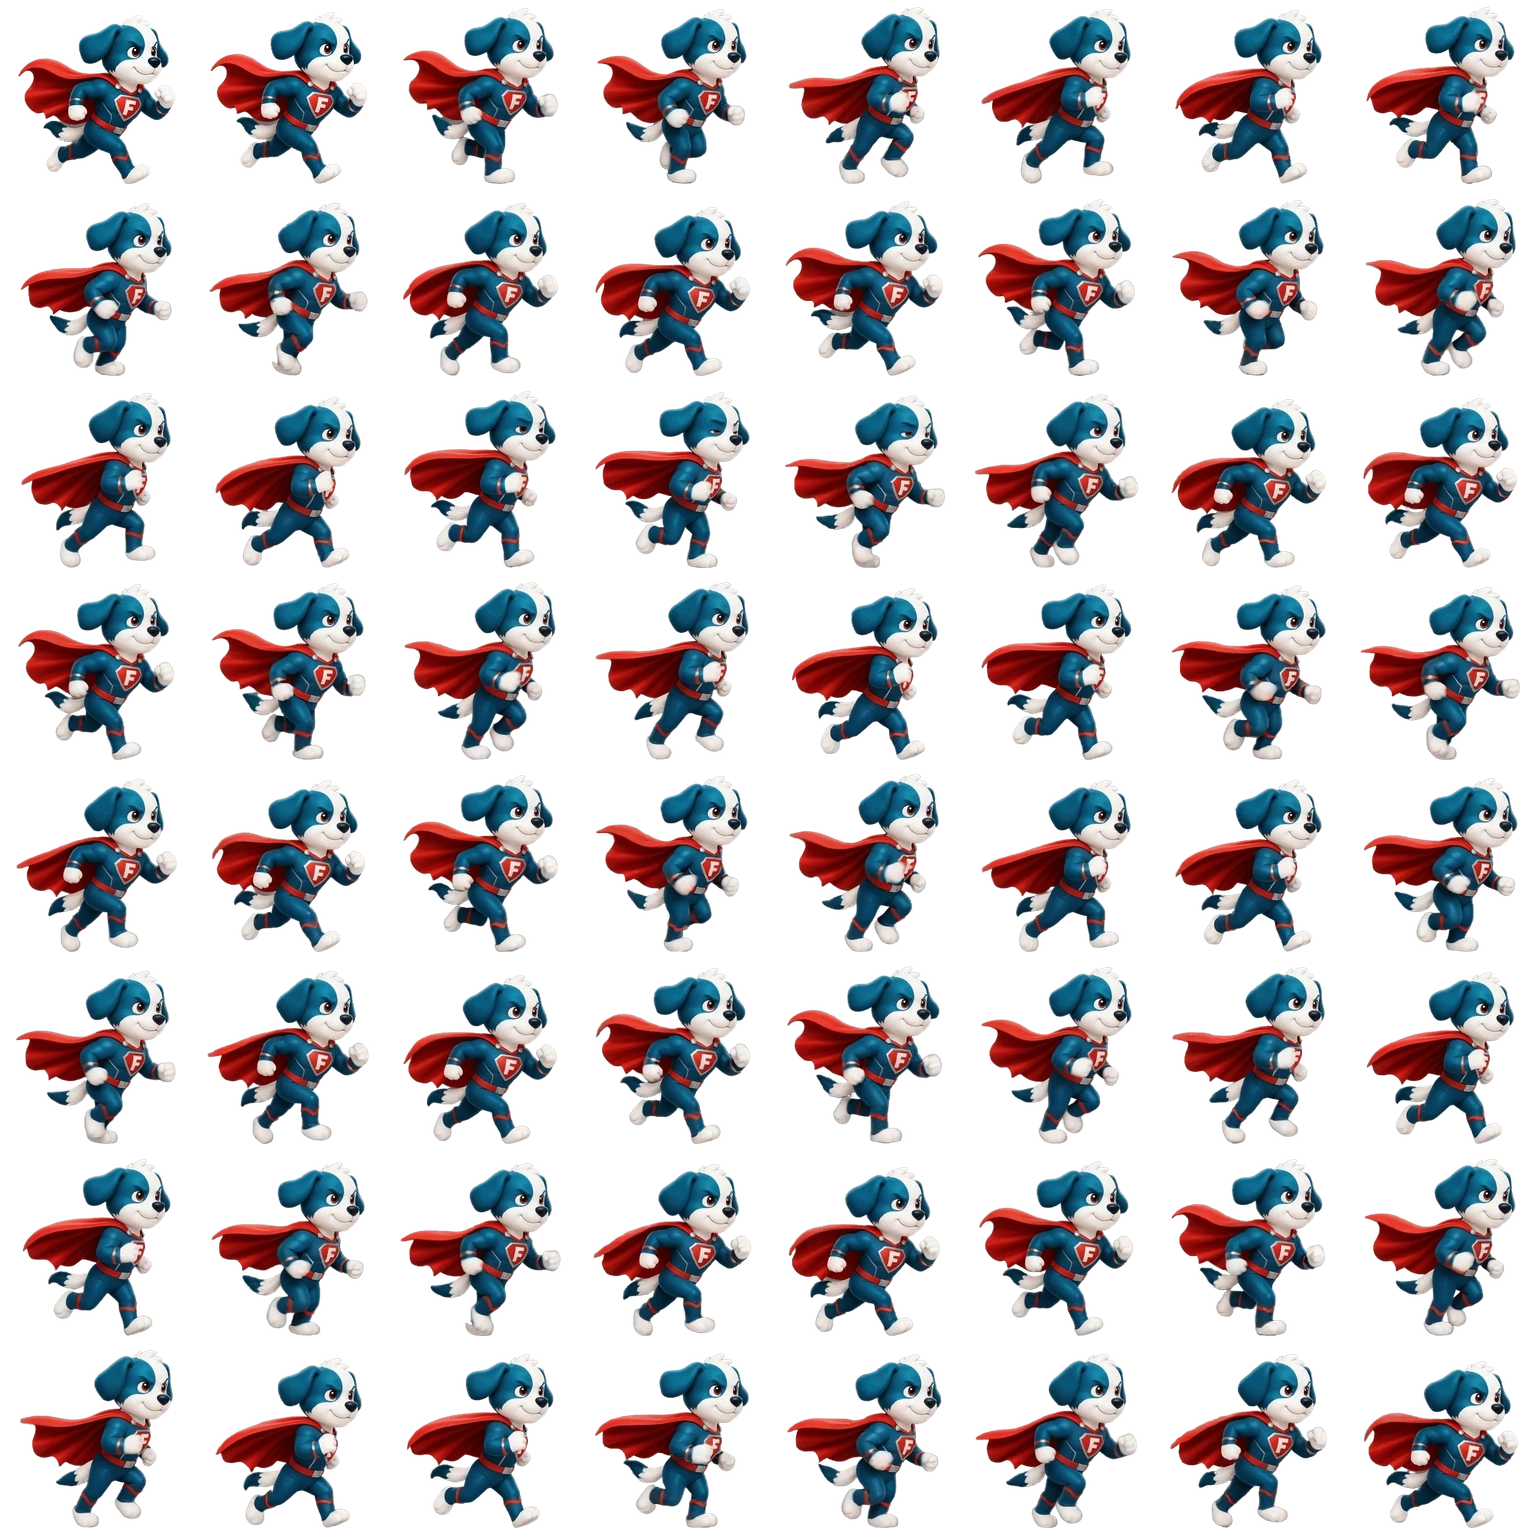
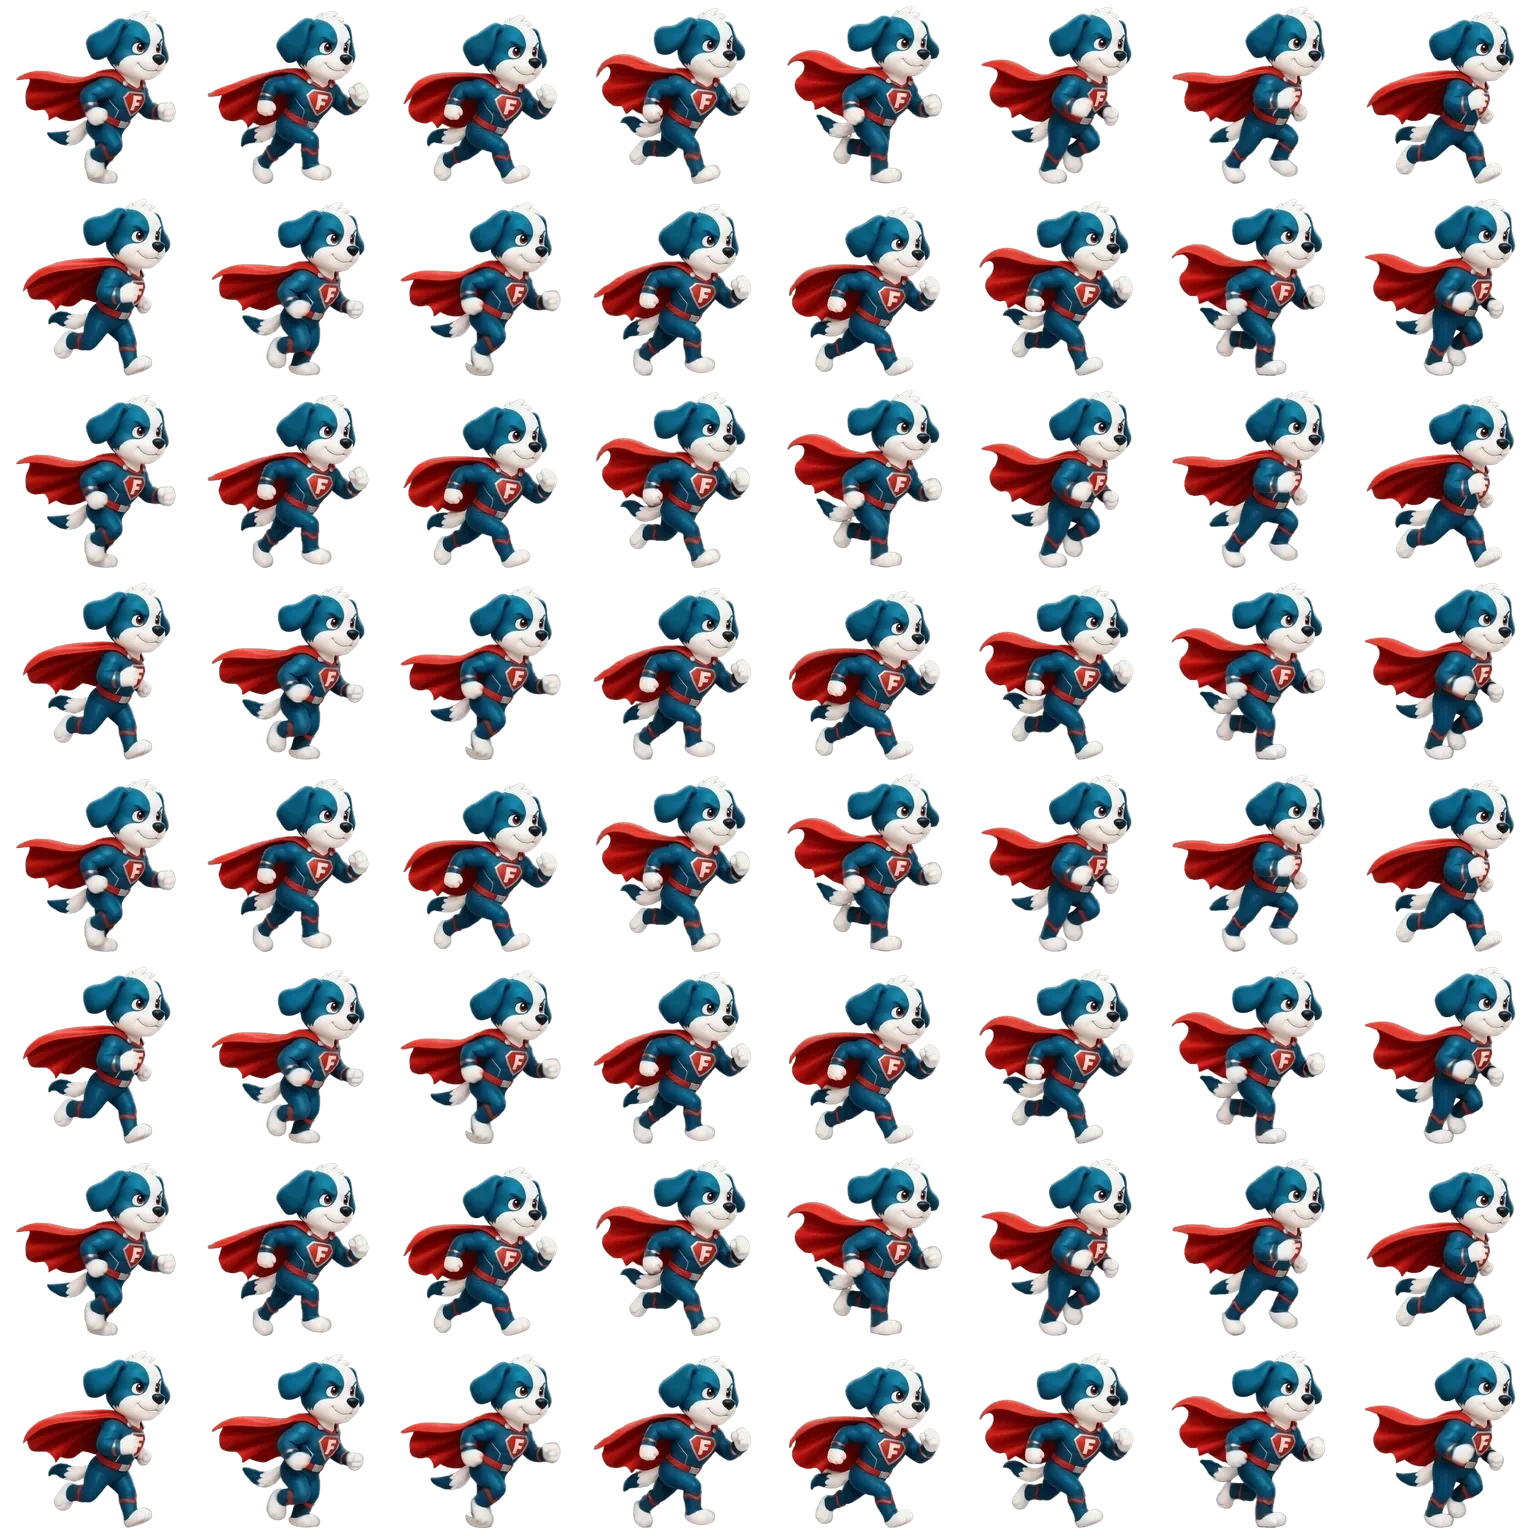
fix(fredrun): smooth Fred and Superfred run and jump animations

diff --git a/src/lib/fredrun-ui.test.ts b/src/lib/fredrun-ui.test.ts
@@ -17,7 +17,7 @@ const manifest = JSON.parse(readFileSync(fileURLToPath(new URL("../../public/fre
   source: {
     archive: { sha256: string; includedAnimations: string[] };
     jumpSheet: { sha256: string; sourceGrid: string; sourceFrameCount: number; selectedFrameIndices: number[] };
-    runSheet: { file: string; sha256: string; sourceGrid: string; sourceFrameCount: number };
+    runSheet: { file: string; sha256: string; sourceGrid: string; sourceFrameCount: number; selectedFrameIndices: number[] };
   };
   atlas: {
     cellSize: number;
@@ -391,12 +391,15 @@ describe("Fredrun UI surface", () => {
     expect(manifest.source.jumpSheet.selectedFrameIndices).toHaveLength(24);
     expect(manifest.source.jumpSheet.selectedFrameIndices[0]).toBe(0);
     expect(manifest.source.jumpSheet.selectedFrameIndices.at(-1)).toBe(48);
-    expect(manifest.source.runSheet).toEqual({
+    expect(manifest.source.runSheet).toMatchObject({
       file: "Fred-run.png",
[1 lines of base64/hex data omitted]
       sourceGrid: "8x8",
       sourceFrameCount: 64,
     });
+    expect(manifest.source.runSheet.selectedFrameIndices).toHaveLength(64);
+    expect(manifest.source.runSheet.selectedFrameIndices[0]).toBe(24);
+    expect(manifest.source.runSheet.selectedFrameIndices.at(-1)).toBe(55);
     expect(manifest.atlas).toMatchObject({
       cellSize: 192,
       anchor: "bottom-center",
@@ -502,22 +505,25 @@ describe("Fredrun UI surface", () => {
       sourceGrid: "8x8",
       sourceFrameCount: 64,
       phaseFrames: {
-        takeoff: [0, 24],
-        superman: [25, 40],
-        landing: [41, 63],
+        takeoff: [24, 27],
+        superman: [28, 38],
+        landing: [39, 46],
       },
     });
-    expect(superfredManifest.atlas.animations.jump.sourceFrames).toEqual(
-      Array.from({ length: 64 }, (_, index) => index),
-    );
+    const sourceFrames = superfredManifest.atlas.animations.jump.sourceFrames;
+    expect(sourceFrames).toHaveLength(64);
+    expect(sourceFrames?.[0]).toBe(24);
+    expect(sourceFrames?.[9]).toBe(27);
+    expect(sourceFrames?.[10]).toBe(28);
+    expect(sourceFrames?.at(-1)).toBe(46);
     const totalBytes = Object.values(superfredManifest.atlas.animations).reduce((total, animation) => (
       total + animation.bytes
     ), 0);
     expect(totalBytes).toBeLessThanOrEqual(3 * 1024 * 1024);
     expect(profileSource).toContain('export const FREDRUN_CHARACTER_IDS = ["fred", "frida", "superfred"] as const');
-    expect(viewSource).toContain('walk: { source: "/fredrun/superfred/walk.webp", columns: 8, frameCount: 64, fps: 16 }');
+    expect(viewSource).toContain('walk: { source: "/fredrun/superfred/walk.webp?v=smooth-walk-1", columns: 8, frameCount: 64, fps: 16 }');
     expect(viewSource).toContain('const JUMP_ANIMATION_DURATION = 0.82;');
-    expect(viewSource).toContain('jump: { source: "/fredrun/superfred/jump.webp?v=superman-jump-1", columns: 8, frameCount: 64, fps: 16 }');
+    expect(viewSource).toContain('jump: { source: "/fredrun/superfred/jump.webp?v=superman-jump-2", columns: 8, frameCount: 64, fps: 16 }');
     expect(viewSource).toContain('victory: { source: "/fredrun/superfred/victory.webp", columns: 8, frameCount: 64, fps: 16 }');
     expect(profileSource).toContain('superfred: { name: "Superfred", description: "Mit Cape und Extrapower", price: FREDRUN_SUPERFRED_PRICE }');
     expect(stylesSource).toContain("grid-template-columns: repeat(3, minmax(0, 1fr));");

diff --git a/src/components/fredrun-view.tsx b/src/components/fredrun-view.tsx
@@ -110,7 +110,7 @@ type CharacterSpriteLayout = {
 
 const characterSpriteLayouts: Record<FredRunCharacterId, Record<SpriteKey, CharacterSpriteLayout>> = {
   fred: {
-    walk: { source: "/fredrun/walk.png", columns: 8, frameCount: 64, fps: 18 },
+    walk: { source: "/fredrun/walk.png?v=smooth-walk-1", columns: 8, frameCount: 64, fps: 18 },
     jump: { source: "/fredrun/jump.png", columns: 6, frameCount: 24, fps: 18 },
     victory: { source: "/fredrun/victory.png", columns: 8, frameCount: 64, fps: 18 },
   },
@@ -120,8 +120,8 @@ const characterSpriteLayouts: Record<FredRunCharacterId, Record<SpriteKey, Chara
     victory: { source: "/fredrun/frida/victory.webp", columns: 8, frameCount: 32, fps: 16 },
   },
   superfred: {
-    walk: { source: "/fredrun/superfred/walk.webp", columns: 8, frameCount: 64, fps: 16 },
-    jump: { source: "/fredrun/superfred/jump.webp?v=superman-jump-1", columns: 8, frameCount: 64, fps: 16 },
+    walk: { source: "/fredrun/superfred/walk.webp?v=smooth-walk-1", columns: 8, frameCount: 64, fps: 16 },
+    jump: { source: "/fredrun/superfred/jump.webp?v=superman-jump-2", columns: 8, frameCount: 64, fps: 16 },
     victory: { source: "/fredrun/superfred/victory.webp", columns: 8, frameCount: 64, fps: 16 },
   },
 };
@@ -1607,9 +1607,17 @@ export default function FredRunView({
     bestScoreRef.current = readFredRunHighScore(storage);
     setBestScore(bestScoreRef.current);
     const storedProfile = readFredRunProfile(storage);
-    profileRef.current = storedProfile.profile;
-    selectedCharacterRef.current = storedProfile.profile.selectedCharacter;
-    setProfile(storedProfile.profile);
+    const initialProfile = process.env.NODE_ENV !== "production"
+      ? {
+          ...storedProfile.profile,
+          unlockedCharacters: storedProfile.profile.unlockedCharacters.includes("superfred")
+            ? storedProfile.profile.unlockedCharacters
+            : [...storedProfile.profile.unlockedCharacters, "superfred" as const],
+        }
+      : storedProfile.profile;
+    profileRef.current = initialProfile;
+    selectedCharacterRef.current = initialProfile.selectedCharacter;
+    setProfile(initialProfile);
     setStorageAvailable(storedProfile.storageAvailable);
     setProfileReady(true);
   }, []);
